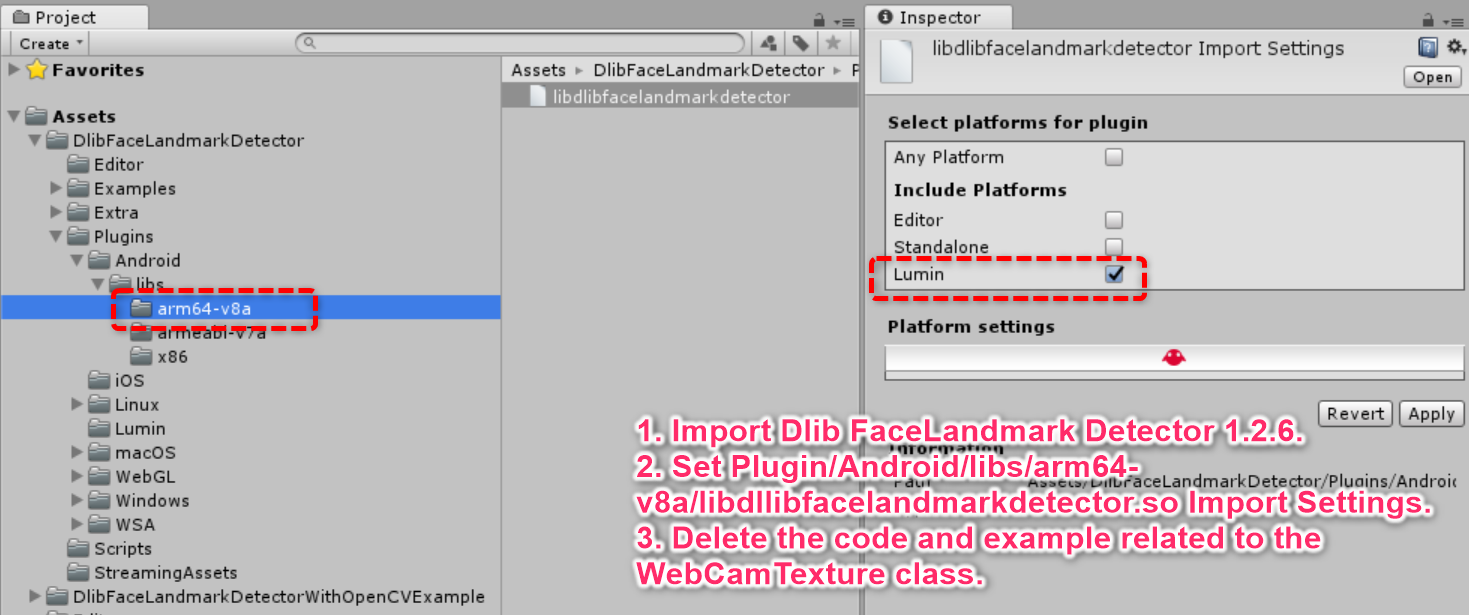
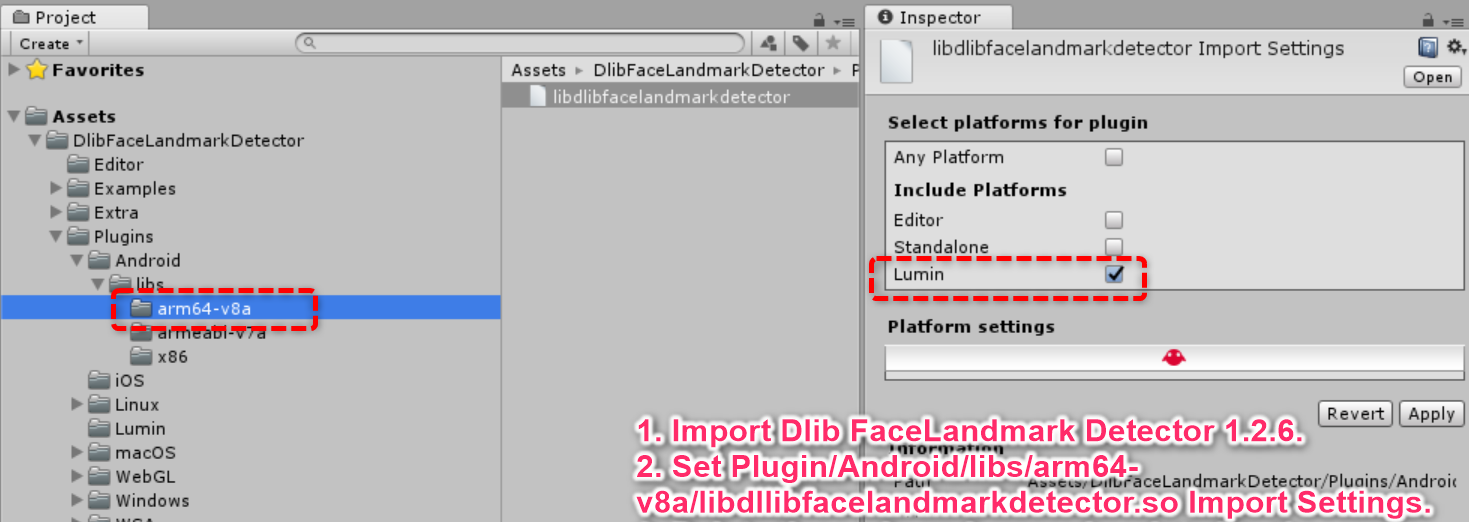
update README.md

diff --git a/README.md b/README.md
@@ -11,17 +11,28 @@
 ## Setup
 1. Download the latest release unitypackage. [MagicLeapWithDlibFaceLandmarkDetectorExample.unitypackage](https://github.com/EnoxSoftware/MagicLeapWithDlibFaceLandmarkDetectorExample/releases)
 1. Create a new project. (MagicLeapWithDlibFaceLandmarkDetectorExample)
+1. Import "C:/Users/xxx/MagicLeap/tools/unity/v0.19.0/MagicLeap.unitypackage"
 1. Import the OpenCVForUnity.
     * Setup the OpenCVForUnity. (Tools > OpenCV for Unity > Set Plugin Import Settings)
     * Set "Assets/OpenCVForUnity/Plugin/Android/libs/arm64-v8a/libopencvforunity.so" Import Settings.
-    * Delete the code and example related to the WebCamTexture class.
     ![magicleap_opencv_settings.png](magicleap_opencv_settings.png)
+    * Enclose the code related to the WebCamTexture class with #if UNITY_EDITOR and #endif. ( The WebCamTexture class is not included in the MagicLeap API, so an error occurs at build time. )
+    ![enclose_utils.png](enclose_utils.png)
+    Assets/OpenCVForUnity/org/opencv/unity/Utils.cs
+    ![enclose_webcamtexturetomathelper.png](enclose_webcamtexturetomathelper.png)
+    Assets/OpenCVForUnity/org/opencv/unity/helper/WebCamTextureToMatHelper.cs
+    * Delete "Assets/OpenCVForUnity/Examples" folders.
+    ![delete_opencv_examples.png](delete_opencv_examples.png)
 1. Import the DlibFaceLandmarkDetector.
     * Setup the DlibFaceLandmarkDetector. (Tools > Dlib FaceLandmarkDetector > Set Plugin Import Settings)
+    * Import "Assets/DlibFaceLandmarkDetector/DlibFaceLandmarkDetectorWithOpenCVExample.unitypackage".
     * Set "Assets/Dlib FaceLandmarkDetector/Plugin/Android/libs/arm64-v8a/libdlibfacelandmarkdetector.so" Import Settings.
-    * Delete the code and example related to the WebCamTexture class.
     ![magicleap_dlib_settings.png](magicleap_dlib_settings.png)
-1. Import the MagicLeapWithOpenCVForUnityExample.unitypackage.
+    * Delete "Assets/DlibFaceLandmarkDetector/Examples/***Example" folders.
+    ![delete_dlib_examples.png](delete_dlib_examples.png)
+    * Delete "Assets/DlibFaceLandmarkDetectorWithOpenCVExample/***Example" folders.
+    ![delete_dlibwithopencv_examples.png](delete_dlibwithopencv_examples.png)    
+1. Import the MagicLeapWithDlibFaceLandmarkDetectorExample.unitypackage.
 1. Add the "Assets/MagicLeapWithDlibFaceLandmarkDetectorExample/*.unity" files to the "Scenes In Build" list in the "Build Settings" window.
 1. Check CameraCapture checkbox in Publishing Settings.
 1. Build and Deploy to MagicLeap.
